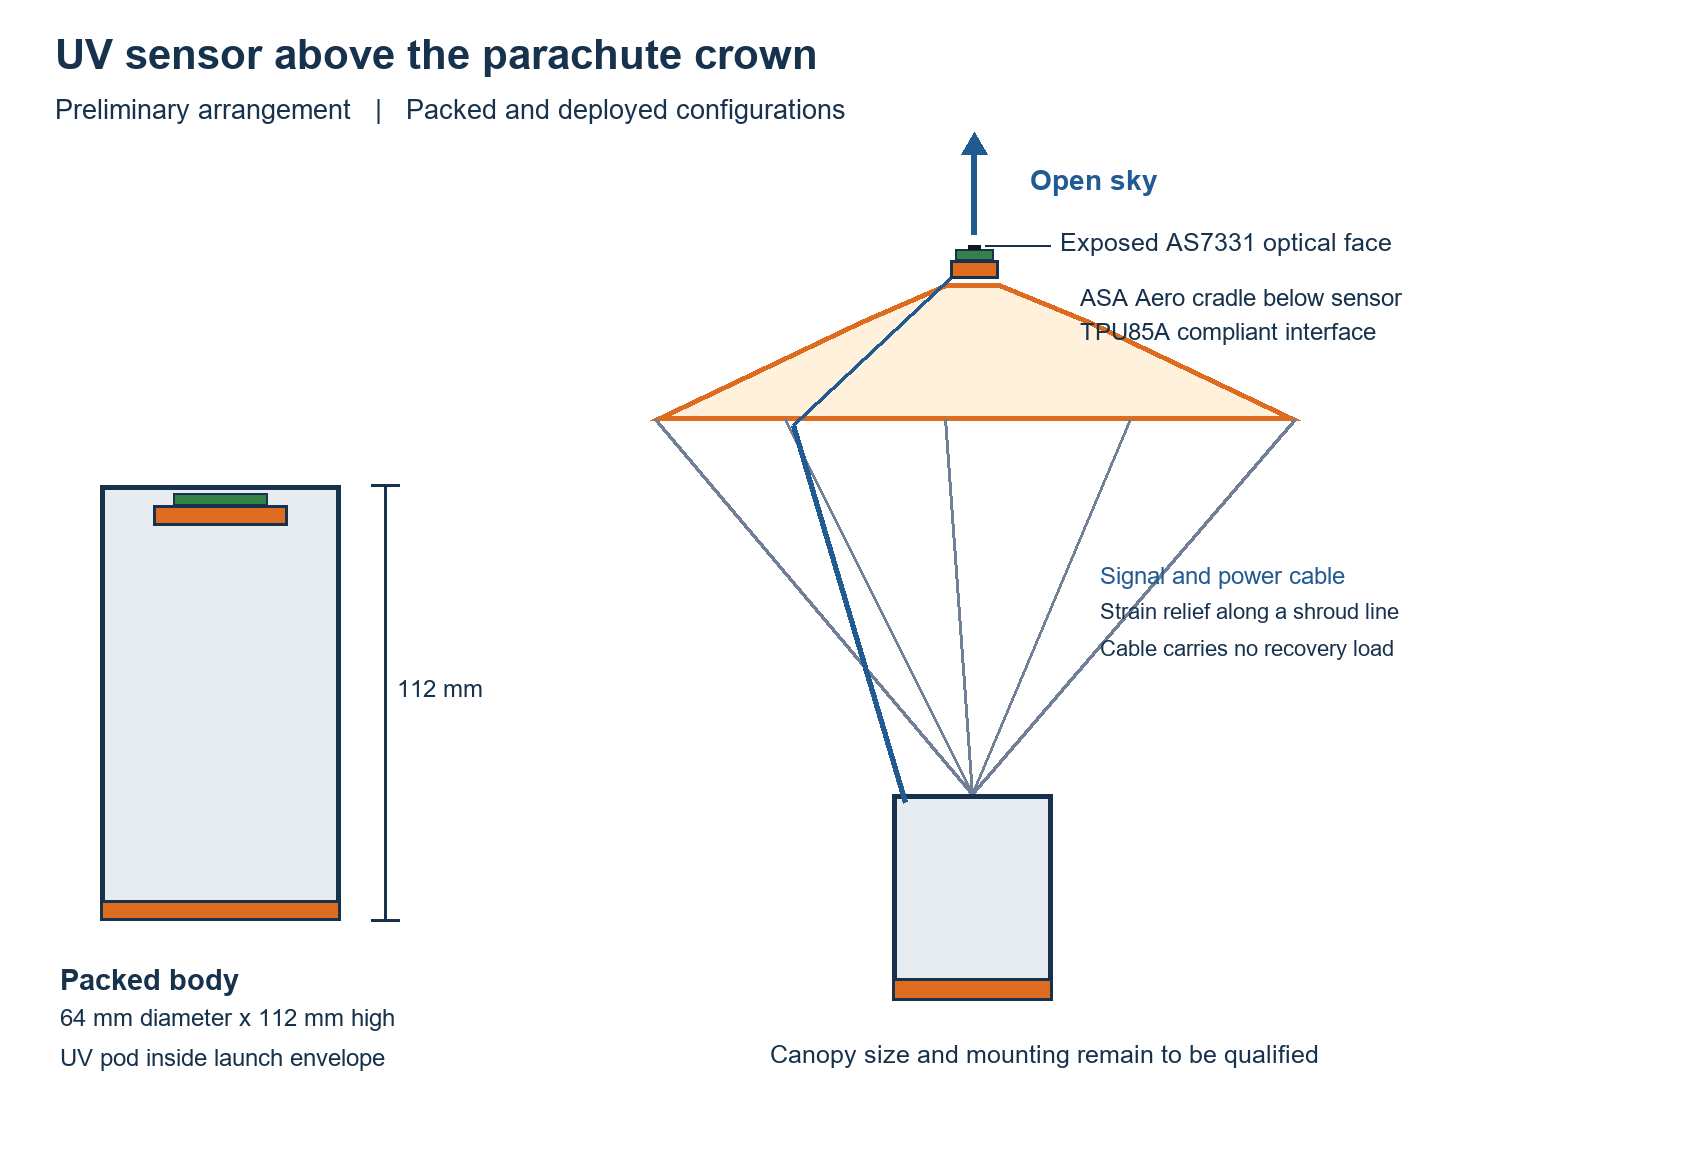
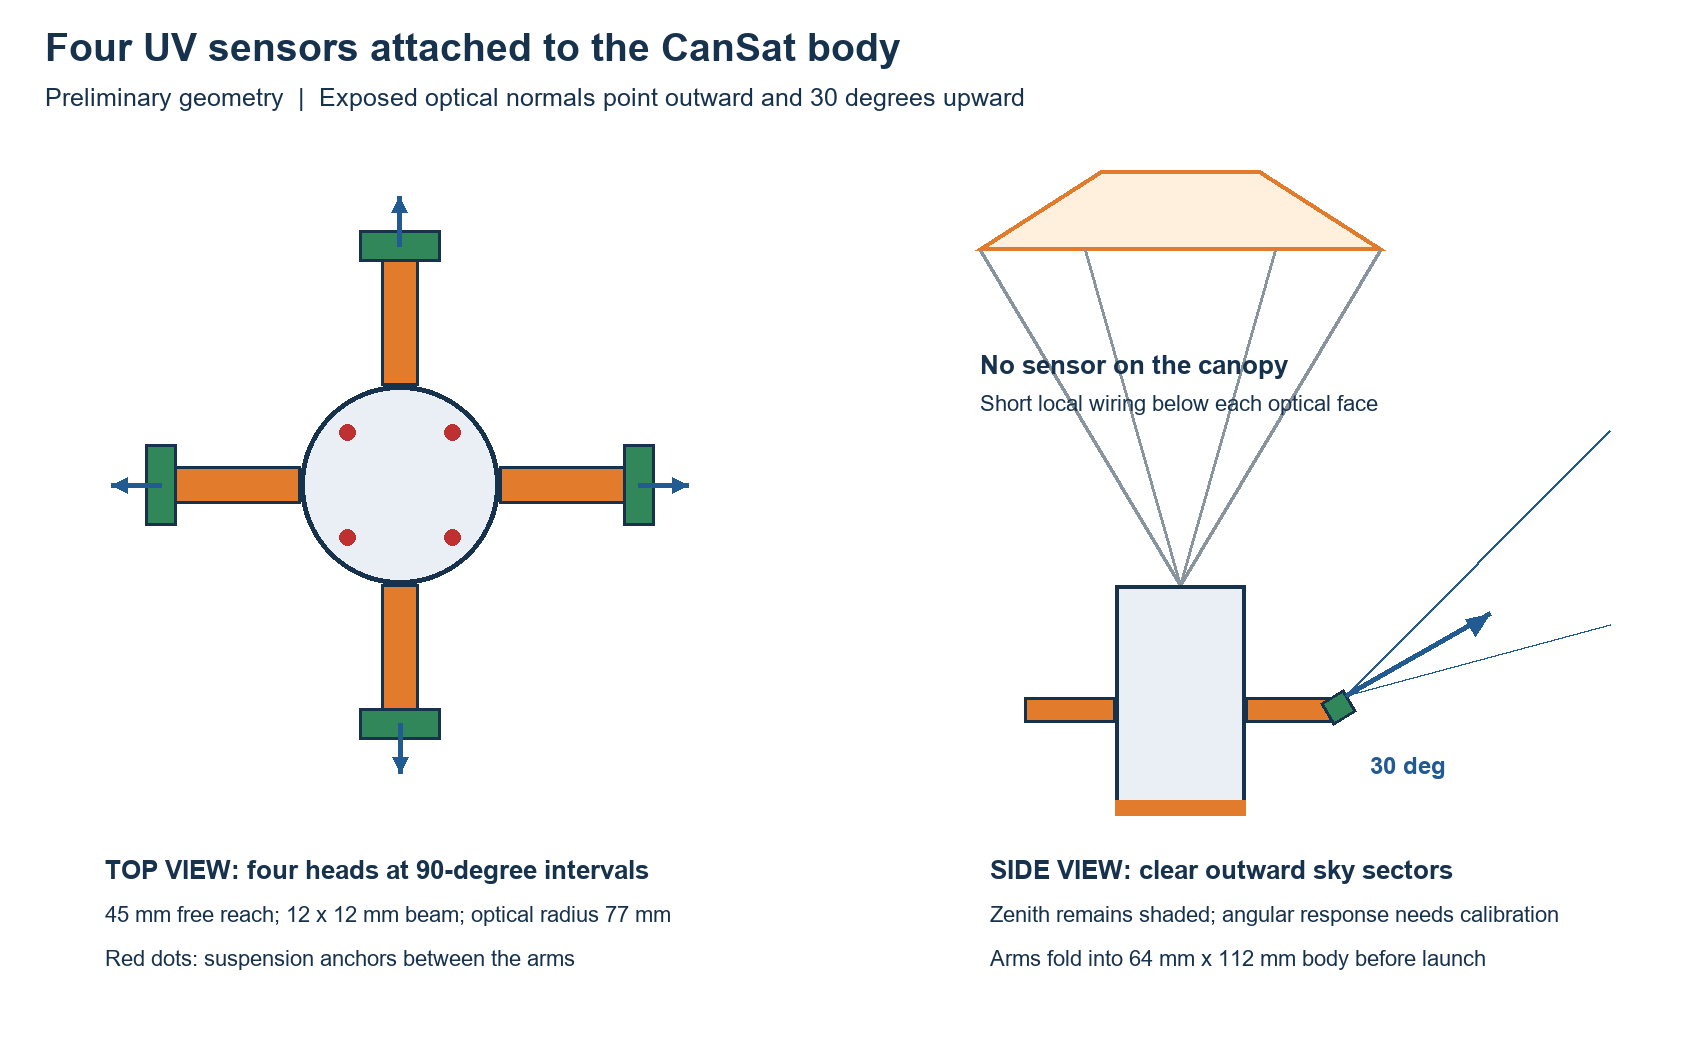
Present four body-mounted UV heads and analytical arm study

diff --git a/website/cansat.html b/website/cansat.html
@@ -64,7 +64,7 @@
         <div class="hero__copy" data-reveal>
           <h1 class="page-title">CanSat</h1>
           <p class="eyebrow">THE PAYLOAD · DESIGN IN DEVELOPMENT</p>
-          <p class="hero__lead">Temperature and pressure describe the atmosphere. UVA and UVB add a radiation profile. A small sensor pod looks at the sky from above a passive parachute.</p>
+          <p class="hero__lead">Temperature and pressure describe the atmosphere. UVA and UVB add a radiation profile. Four sensors on the CanSat body look outward and upward during passive parachute descent.</p>
           <div class="hero__actions"><a class="button button--accent" href="#flight-software">Explore the mission</a><a class="button" href="#components">See the hardware</a></div>
         </div>
         <aside class="hero-card glass-panel" data-reveal>
@@ -90,19 +90,21 @@
       </section>
 
       <section class="section section--tight" id="flight-software" aria-labelledby="software-title">
-        <div class="section__head"><p class="eyebrow">01 / MEASURE, SAMPLE, RECOVER</p><h2 id="software-title">An atmospheric profile with UV.</h2><p>Our secondary mission now compares UVA and UVB with altitude. Temperature and pressure remain the compulsory primary measurements.</p></div>
+        <div class="section__head"><p class="eyebrow">01 / MEASURE, SAMPLE, RECOVER</p><h2 id="software-title">Four views of the UV profile.</h2><p>Our secondary mission compares UVA and UVB with altitude using four sensors attached directly to the CanSat body. Temperature and pressure remain the compulsory primary measurements.</p></div>
         <div class="mission-grid">
-          <article class="mission-stage"><span class="stage-number">01</span><h3>Measure</h3><p>Measure air temperature and pressure after release and during descent. Transmit both to the ground once every second and estimate relative altitude from pressure.</p></article>
-          <article class="mission-stage"><span class="stage-number">02</span><h3>Sample UV</h3><p>The selected SparkFun Mini AS7331 separates UV channels. Save UVA and UVB with altitude, acquisition time and measurement settings to build a local radiation profile.</p></article>
-          <article class="mission-stage"><span class="stage-number">03</span><h3>Recover</h3><p>A bright reusable parachute provides passive recovery. The proposed UV pod sits above the canopy, with its active face higher than fabric, cable and mounting parts.</p></article>
+          <article class="mission-stage"><span class="stage-number">01</span><h3>Measure</h3><p>Measure air temperature and pressure after release and during descent. Transmit both once every second and estimate relative altitude from pressure.</p></article>
+          <article class="mission-stage"><span class="stage-number">02</span><h3>Sample four directions</h3><p>Four SparkFun Mini AS7331 boards sit at 90-degree intervals. Their exposed optical faces point outward and 30 degrees upward; separate readings retain the direction and measurement settings.</p></article>
+          <article class="mission-stage"><span class="stage-number">03</span><h3>Recover</h3><p>A bright reusable parachute provides passive recovery. The sensor arms fold inside the launch envelope and need captured roots and positive locks when deployed. No sensor is mounted on the parachute.</p></article>
         </div>
         <div class="control-notes">
-          <details><summary>How will the sensor avoid parachute shading?</summary><p>The preliminary model places the UV pod above the canopy crown. Its upward optical face has no printed roof or ordinary clear-plastic cover. The pod and wiring are packed inside the CanSat before launch; the mounting and unfolding arrangement still need physical verification.</p></details>
-          <details><summary>What can the UV readings tell us?</summary><p>We will plot UVA and UVB against relative altitude, retaining raw counts and quality flags. Clouds, solar angle, pod tilt and saturation may influence the profile. A short flight may show no resolvable change; the readings do not automatically provide a validated UV Index or ozone concentration.</p></details>
-          <details><summary>How does the UV pod connect to the payload?</summary><p>A signal and power cable follows a shroud line with separate strain relief. A protected UV supply and differential cable interface are proposed. The cable carries no parachute load, and primary measurements take priority if the UV branch fails.</p></details>
-          <details><summary>Where can I see the preliminary design?</summary><p>Read the <a href="https://github.com/ericxyuan/altitude-cansat/blob/main/docs/Altitude_PDR.docx">current PDR</a>, open the <a href="https://cad.onshape.com/documents/76123ac2946988d574b71b35/w/4e6885d706dac03531484551/e/0391f996e69f00881814257a">Onshape demonstration model</a>, or view the <a href="https://lucid.app/lucidchart/16d928bb-fa47-4260-83cb-e005f5ee5b93/edit">updated system diagram</a>. The model demonstrates the UV arrangement; it is a preliminary design. The PDR link requires access to the team’s private engineering repository.</p></details>
+          <details><summary>How do the sensors avoid obstruction?</summary><p>The recommended arms extend 45 mm from the body, putting the optical centres 77 mm from its axis. Outward and upward faces provide clear sky sectors when canopy size, separation and tilt stay within the study assumptions. Zenith remains shaded by the canopy. The sensors have broad angular response, so final optics and canopy shadow need calibration; this is not an unobstructed all-sky measurement.</p></details>
+          <details><summary>What arm geometry is recommended?</summary><p>The preliminary study selects a 45 mm free span with a 12 × 12 mm ASA Aero beam, a tapered transition, R5 shoulder blends and a captured root. The complete arm is about 65 mm long including its root. It was the lightest of 210 screened rectangular variants meeting the chosen structural and ray-clearance criteria. A printed pivot guides deployment; the positive root lock must carry flight loads.</p></details>
+          <details><summary>What has been assessed so far?</summary><p>Native Onshape geometry checks confirm the static stowed demonstration fits the 66 mm diameter × 115 mm launch cylinder. Analytical screening estimates 0.42 mm tip movement and a reduced-strength ratio of 2.83 for an assumed 100 g opening shock plus 30 m/s flow. These are calculations, not completed FEA or physical tests. SimScale sign-in prevented a solver run; the study supplies material values, loads and restraints for reproduction. Root locks and actual printed material remain unqualified.</p></details>
+          <details><summary>What can the readings tell us?</summary><p>We will plot per-head UVA and UVB against relative altitude, retaining raw counts, settings and quality flags. Clouds, solar angle, tilt, canopy shading and saturation may influence the profile. A short flight may show no resolvable change. These readings do not automatically provide a validated UV Index or ozone concentration.</p></details>
+          <details><summary>How do four heads connect to the payload?</summary><p>The boards use unique I2C addresses 0x74–0x77 on a short protected 3.3 V body bus. Cables run behind and below each optical face with hinge service loops and strain relief. A body attitude sensor can describe the faces when all arms are locked. The new MicroPython driver and application remain to be implemented.</p></details>
+          <details><summary>Where can I see the design evidence?</summary><p>Read the <a href="https://github.com/ericxyuan/altitude-cansat/blob/main/docs/Altitude_PDR.docx">current PDR</a> and <a href="https://github.com/ericxyuan/altitude-cansat/blob/main/studies/uv_arms/UV_ARM_ENGINEERING_REPORT.md">arm engineering study</a>, open the <a href="https://cad.onshape.com/documents/76123ac2946988d574b71b35/w/4e6885d706dac03531484551/e/0391f996e69f00881814257a">Onshape model</a>, or view the <a href="https://lucid.app/lucidchart/16d928bb-fa47-4260-83cb-e005f5ee5b93/edit">system diagram</a>. The engineering documents require access to the team’s private repository. The CAD demonstrates the concept and is not a qualified flight assembly.</p></details>
         </div>
-        <figure class="copy-panel glass-panel"><img src="../assets/images/uv_sampling_arrangement.png" alt="Engineering sketch showing the UV pod packed inside the CanSat and deployed above the parachute crown" style="width:100%;height:auto"><figcaption>Preliminary UV arrangement: an exposed optical face above the canopy, with cables and mounts below it.</figcaption></figure>
+        <figure class="copy-panel glass-panel"><img src="../assets/images/uv_sampling_arrangement.png" alt="Top and side sketches of four radial body-mounted UV sensors with outward and upward optical faces" style="width:100%;height:auto"><figcaption>Four body-mounted heads; 45 mm free arms with a 12 × 12 mm section. Suspension lines sit between the arms.</figcaption></figure>
       </section>
 
       <section class="section" id="components">
@@ -114,8 +116,8 @@
         <div class="device-grid">
           <article class="device-card glass-panel" data-reveal>
             <p class="component-status">SELECTED PLATFORM</p>
-            <div class="processor-spec"><span>ESP32</span><strong>S3</strong><small>MicroPython · two physical boards</small></div>
-            <h3>ESP32-S3 controllers</h3>
+            <div class="processor-spec"><span>ESP32</span><strong>S3</strong><small>MicroPython · one proposed flight controller</small></div>
+            <h3>ESP32-S3 flight controller</h3>
             <p>The simplified UV mission proposes one flight controller for sensing, logging and telemetry. Python with MicroPython remains our development platform. The final ESP32-S3 board variant depends on packaging and power measurements.</p>
             <a class="text-link" href="https://docs.espressif.com/projects/esp-dev-kits/en/latest/esp32s3/esp32-s3-devkitc-1/user_guide_v1.0.html" target="_blank" rel="noopener noreferrer">Board specifications ↗</a>
           </article>
@@ -130,8 +132,8 @@
 
           <article class="device-card glass-panel" data-reveal>
             <div class="device-card__image"><img src="../assets/images/AS7331-footprint.svg" alt="Schematic of the 25.4 by 12.7 millimetre AS7331 Mini board footprint"></div>
-            <p class="component-status">SELECTED DEVELOPMENT SENSOR</p><h3>AS7331 UV sensor</h3>
-            <p>The SparkFun Mini AS7331 provides separate UV channels on a 25.4 mm by 12.7 mm board. UVA and UVB are our science channels. It uses 3.3 V power and I2C; calibration and a MicroPython driver remain to be completed. <a href="https://docs.sparkfun.com/SparkFun_Spectral_UV_Sensor_AS7331/hardware_overview/">Sensor documentation</a></p>
+            <p class="component-status">SELECTED DEVELOPMENT SENSOR</p><h3>Four AS7331 UV sensors</h3>
+            <p>Four SparkFun Mini AS7331 boards provide separate UV channels on a 25.4 mm by 12.7 mm board. UVA and UVB are our science channels. It uses 3.3 V power and I2C; calibration and a MicroPython driver remain to be completed. <a href="https://docs.sparkfun.com/SparkFun_Spectral_UV_Sensor_AS7331/hardware_overview/">Sensor documentation</a></p>
           </article>
 
           <article class="device-card glass-panel" data-reveal>
@@ -143,8 +145,8 @@
           </article>
 
           <article class="device-card glass-panel" data-reveal>
-            <div class="device-card__image"><img src="../assets/images/uv_sampling_arrangement.png" alt="Preliminary UV sensor pod and passive parachute arrangement"></div>
-            <h3>UV pod and recovery</h3><p>An ASA Aero cradle and TPU85A compliant interface position the sensor above the parachute crown. A small head-mounted attitude sensor is a candidate for recording actual optical-face tilt. The canopy, harness and pod attachment need physical qualification.</p>
+            <div class="device-card__image"><img src="../assets/images/uv_sampling_arrangement.png" alt="Four body-mounted UV sensor arms and passive parachute arrangement"></div>
+            <h3>Body-mounted UV arms</h3><p>Four ASA Aero arms carry the UV heads around the body. The proposed 45 × 12 × 12 mm beams need captured root seats and positive locks. A body IMU records attitude once the arms are locked; the mechanism and sensor optics still need qualification.</p>
           </article>
         </div>
       </section>
@@ -177,12 +179,12 @@
               <img src="../assets/images/ASA Aero.png" alt="ASA Aero filament spool">
             </div>
             <h3>ASA Aero</h3>
-            <p>ASA Aero is selected for the initial shell, internal structure and UV sensor cradle. Printed thickness, layer orientation and foaming settings will be assessed on the actual parts.</p>
+            <p>ASA Aero is selected for the initial frame, radial arms and UV sensor carriers. Printed thickness, layer orientation and foaming settings will be assessed on the actual parts.</p>
           </article>
 
           <article class="device-card glass-panel" data-reveal>
             <div class="device-card__image"><img src="../assets/images/TPU85A-material.svg" alt="TPU85A material label and flexible printed-part illustration"></div>
-            <h3>TPU85A</h3><p>TPU85A is selected for the initial impact pad, compliant sensor-pod interface and cable strain relief. These flexible parts complement the ASA Aero structure.</p>
+            <h3>TPU85A</h3><p>TPU85A is selected for the initial impact pad, sensor isolation and cable strain relief. These flexible parts complement the ASA Aero structure.</p>
           </article>
 
 
@@ -210,7 +212,7 @@
           <article class="process-card glass-panel" data-reveal>
             <span>3</span>
             <h3>Integrate</h3>
-            <p>Fit the ESP32-S3, primary sensors, UV pod, radio and storage. Keep the UV cable separate from the recovery load path and record the actual sensor configuration.</p>
+            <p>Fit the ESP32-S3, primary sensors, four UV heads, radio and storage. Keep head cables below the optics and separate from the recovery load path and record the actual sensor configuration.</p>
           </article>
           <article class="process-card glass-panel" data-reveal>
             <span>4</span>

diff --git a/website/about-altitude.html b/website/about-altitude.html
@@ -86,7 +86,7 @@
             <p>A hands-on engineering challenge built around space technology and problem solving.</p>
           </div>
           <p>Our team was formed through a shared passion for space technology, engineering innovation, and hands-on problem solving. Through the CanSat competition, we aim to design and develop a fully autonomous miniature satellite designed to measure air temperature and pressure and compare UVA and UVB at different altitudes during descent.</p>
-          <p>Our initial custom structure will be entirely 3D printed in ASA Aero and TPU85A, with a small UV pod above the parachute canopy. Altitude brings together coding, CAD, fabrication, build work, team leadership, and notebook documentation. The project asks the team to make practical decisions, test them carefully, and explain the evidence behind each iteration.</p>
+          <p>Our initial custom structure will be entirely 3D printed in ASA Aero and TPU85A, with four UV sensors attached to radial arms on the CanSat body. Altitude brings together coding, CAD, fabrication, build work, team leadership, and notebook documentation. The project asks the team to make practical decisions, test them carefully, and explain the evidence behind each iteration.</p>
         </article>
       </section>
 

diff --git a/website/index.html b/website/index.html
@@ -131,7 +131,7 @@
           <article class="link-panel glass-panel" data-reveal>
             <div>
               <h3>CanSat</h3>
-              <p>Python mission software, an ESP32-S3 controller, an exposed UV sensor and an ASA Aero and TPU85A printed structure.</p>
+              <p>Python mission software, an ESP32-S3 controller, four body-mounted UV sensors and an ASA Aero and TPU85A printed structure.</p>
             </div>
             <a class="link-panel__arrow" href="cansat.html" aria-label="Open the CanSat page"><span class="sr-only">Open the CanSat page</span></a>
           </article>

diff --git a/README.md b/README.md
@@ -13,9 +13,9 @@ Altitude is a student-led CanSat team from Haberdashers' Boys' School in Hertfor
 
 ## The CanSat
 
-The primary mission measures air temperature and pressure during descent and transmits both once every second. The secondary mission records UVA and UVB at different altitudes, using the selected SparkFun Mini AS7331 development sensor. A preliminary pod above the canopy gives the exposed optical face a clear sky view.
+The primary mission measures air temperature and pressure during descent and transmits both once every second. The secondary mission records UVA and UVB at different altitudes, using four selected SparkFun Mini AS7331 boards. Four body-mounted ASA Aero arms at 90-degree intervals point the optical faces outward and 30 degrees upward. The canopy still shades zenith; angular response and final canopy geometry need characterization.
 
-Python with MicroPython on ESP32-S3 remains the development platform. The simplified architecture proposes one main flight controller. The initial custom structure is entirely 3D printed in ASA Aero and TPU85A, with a reusable fabric parachute for passive recovery. Final packaging, wiring, calibration and flight qualification remain to be completed.
+Python with MicroPython on ESP32-S3 remains the development platform. The simplified architecture proposes one main flight controller. The initial custom structure is entirely 3D printed in ASA Aero and TPU85A, with a reusable fabric parachute for passive recovery. The arm study recommends 45 mm free span × 12 mm width × 12 mm thickness with captured roots and positive locks. Its reported stress and movement are analytical estimates; no FEA/CFD run completed because SimScale sign-in failed. Final deployment mechanism, packaging, wiring, calibration and flight qualification remain to be completed.
 
 The Bambu Lab X2D printer, AMS hardware and filament dryers support fabrication and material conditioning. Each material uses the appropriate drying settings and feed path.
 
